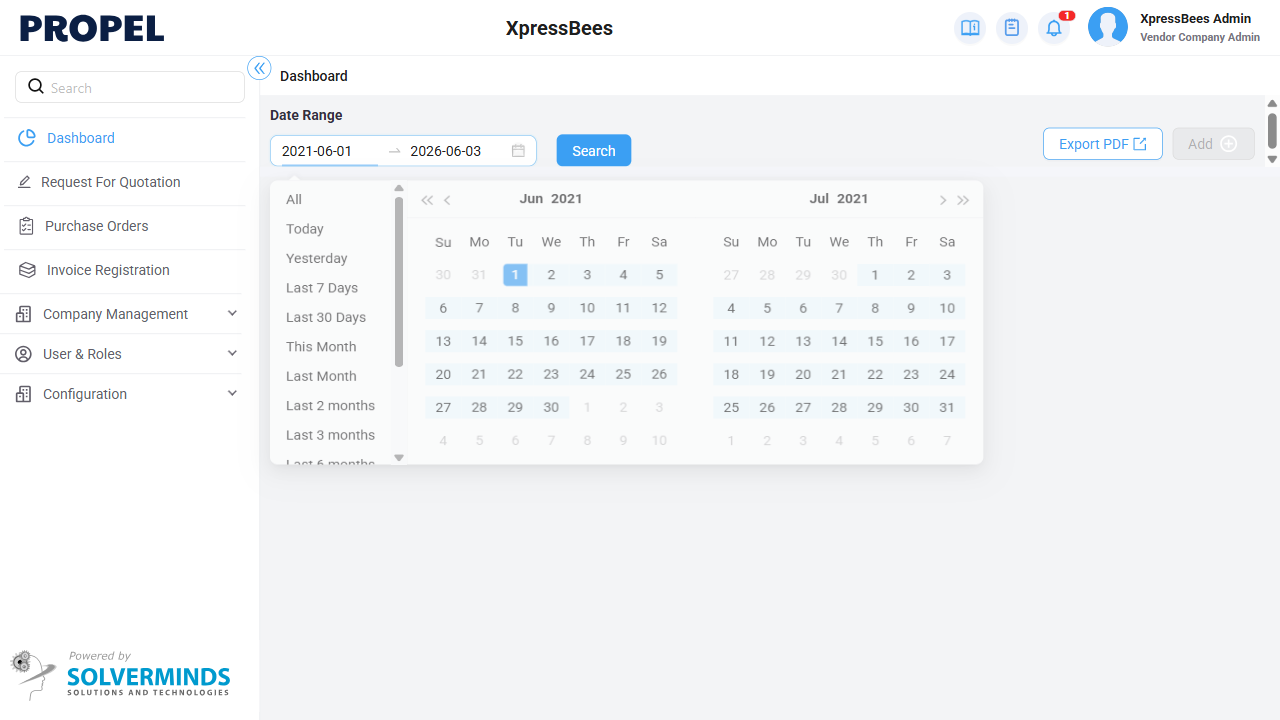
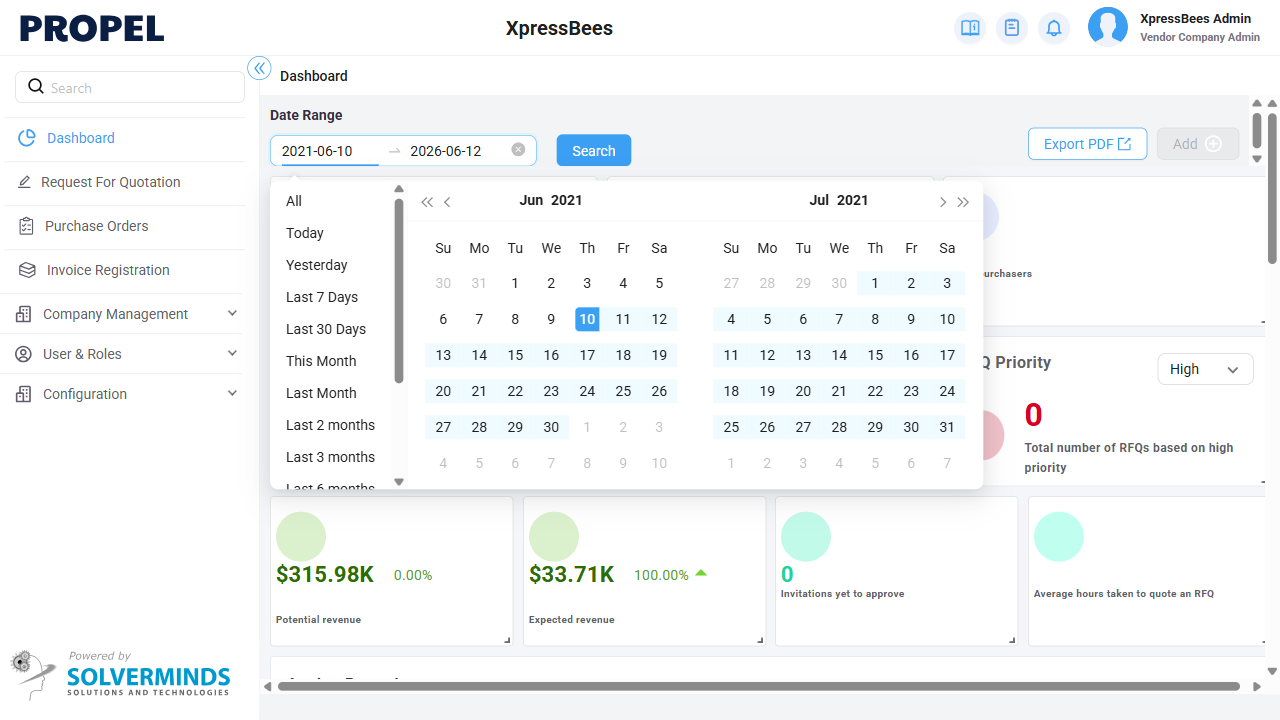
Update dependencies in package.json and package-lock.json, modify test directory in playwright.config.js, and enhance RFQ test structure in rfqpo.spec.ts. Add tsconfig.json for TypeScript configuration.

diff --git a/tests/rfqpo.spec.ts b/tests/rfqpo.spec.ts
@@ -1,19 +1,14 @@
-import {test,expect,Page} from '@playwright/test';
-import { time } from 'node:console';
+import {test,expect} from '@playwright/test';
 
 test.describe.serial('RFQPO', () => {
-    let page : Page;
-
   test.beforeEach(async ({ page }) => {
-    page = await browser.newPage();
     await page.goto('https://svm-propel.com/auth');
     await expect(page).toHaveTitle("PROPEL");
     await page.getByRole('textbox', { name: 'Enter your email' }).fill('[email redacted]');
     await page.getByRole('textbox', { name: 'Enter your password' }).fill('P@ssw0rd');
     await page.getByRole('button', { name: 'Sign in' }).click();
     await expect(page.getByText('Export PDF')).toBeVisible({ timeout: 5000 });
-
-});
+  });
 
 test('rfq', async ({ page }) => {
     await page.getByText('Request For Quotation').click();

diff --git a/playwright.config.js b/playwright.config.js
@@ -14,7 +14,7 @@ import { defineConfig, devices } from '@playwright/test';
  * @see https://playwright.dev/docs/test-configuration
  */
 export default defineConfig({
-  testDir: './e2e',
+  testDir: './tests',
   //testMatch: 'loop.spec.js',
   /* Run tests in files in parallel */
   fullyParallel: true,
@@ -25,7 +25,7 @@ export default defineConfig({
   /* Opt out of parallel tests on CI. */
   workers: process.env.CI ? 1 : undefined,
   /* Reporter to use. See https://playwright.dev/docs/test-reporters */
-  reporter: 'html',
+  reporter: [['html'], ['allure-playwright']],
   /* Shared settings for all the projects below. See https://playwright.dev/docs/api/class-testoptions. */
   use: {
     /* Base URL to use in actions like `await page.goto('')`. */